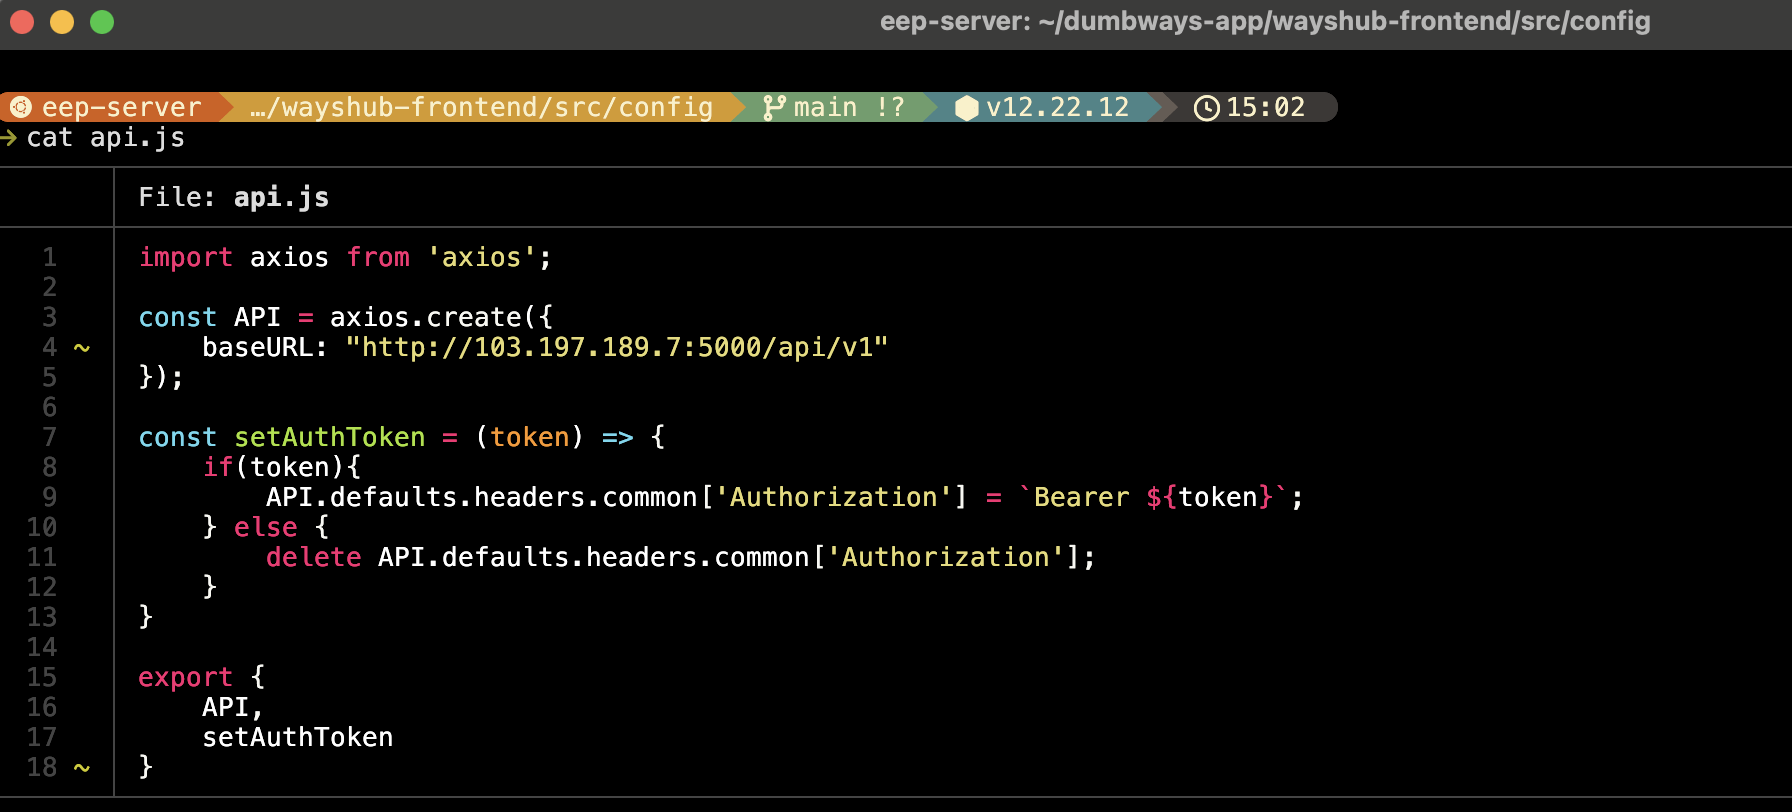
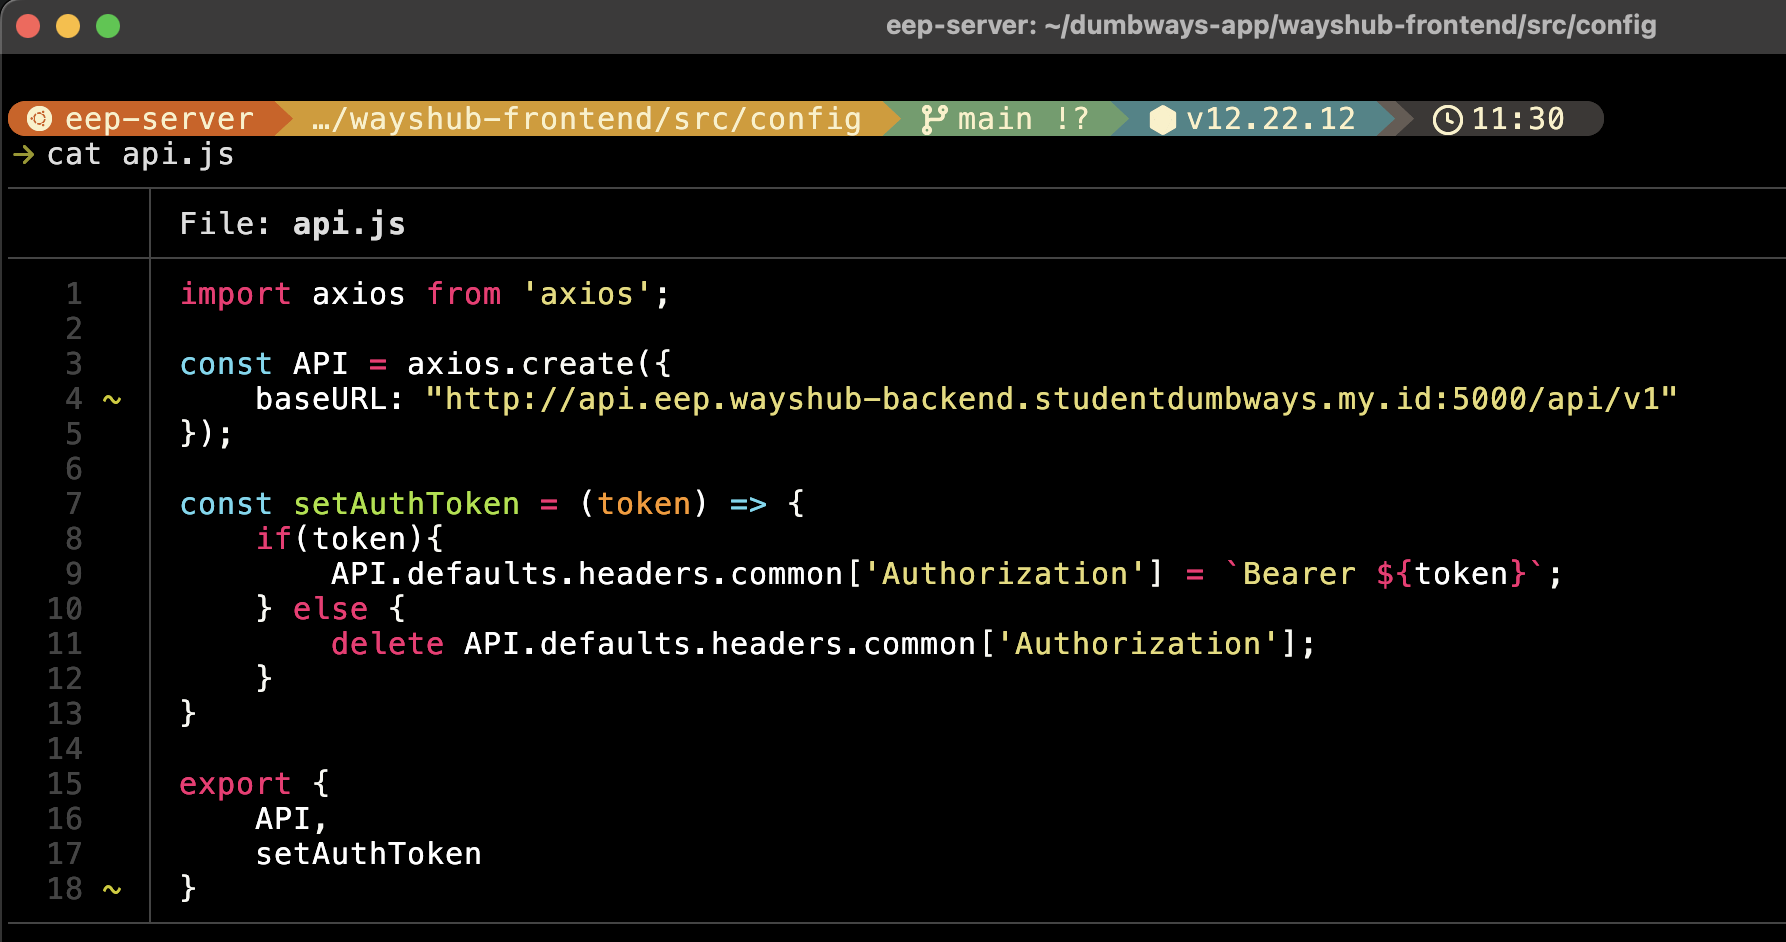
feat: do the task stage2 week1

diff --git a/task/stage-2/week-1/answer.md b/task/stage-2/week-1/answer.md
@@ -172,5 +172,23 @@ INSERT INTO transaction (amount, description) VALUES (5000, 'Test guest'); // mu
 
 9. setup gateway
     1. install nginx → `sudo apt install nginx`
-    2. [contoh](https://github.com/EkoEdyP/devops26-dumbways-eko-edy-p/blob/main/task/stage-1/week-2/day-6/answer.md#2-step-by-step-membuat-reverse-proxy-pada-wayshub-frontenddan-set-domain-menjadi-ekoedypxyz)
+    2. configure cloudflare DNS
+        1. Log in to Cloudflare and select your domain.
+        2. go to `DNS` > `Records`
+        3. add record → Select the `type, name, and IPv4 address`
+
+        *backend*    
+        ![gambar](/task/stage-2/week-1/asset/dns.backend.png)
+
+        *frontend*    
+        ![gambar](/task/stage-2/week-1/asset/dns.frontend.png)
+
+    
+    3. configure nginx reverse proxy
+        1. Go to the folder to create the configuration → `cd /etc/nginx/sites-available`
+        2. Create a file for `wayshub-backend and wayshub-frontend` the configuration settings → `sudo nano wayshub-frontend.conf`
+
+        *backend and frontend nginx configuration*    
+        ![gambar](/task/stage-2/week-1/asset/nginx.conf.png)
+
 10. setup certbot
